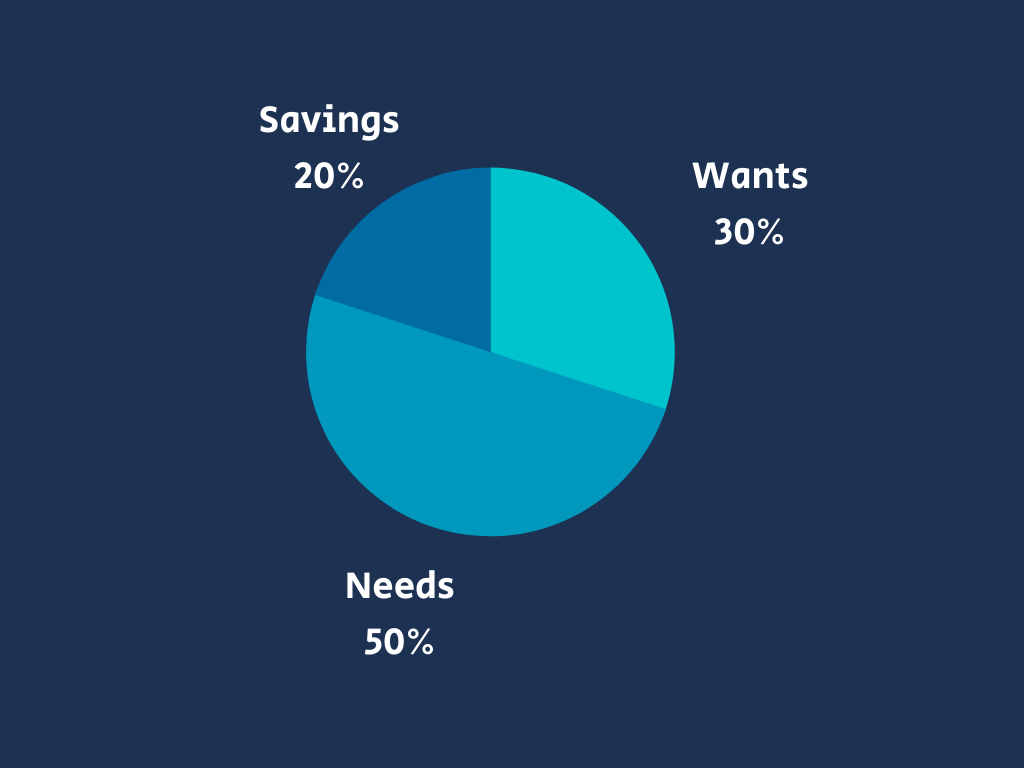
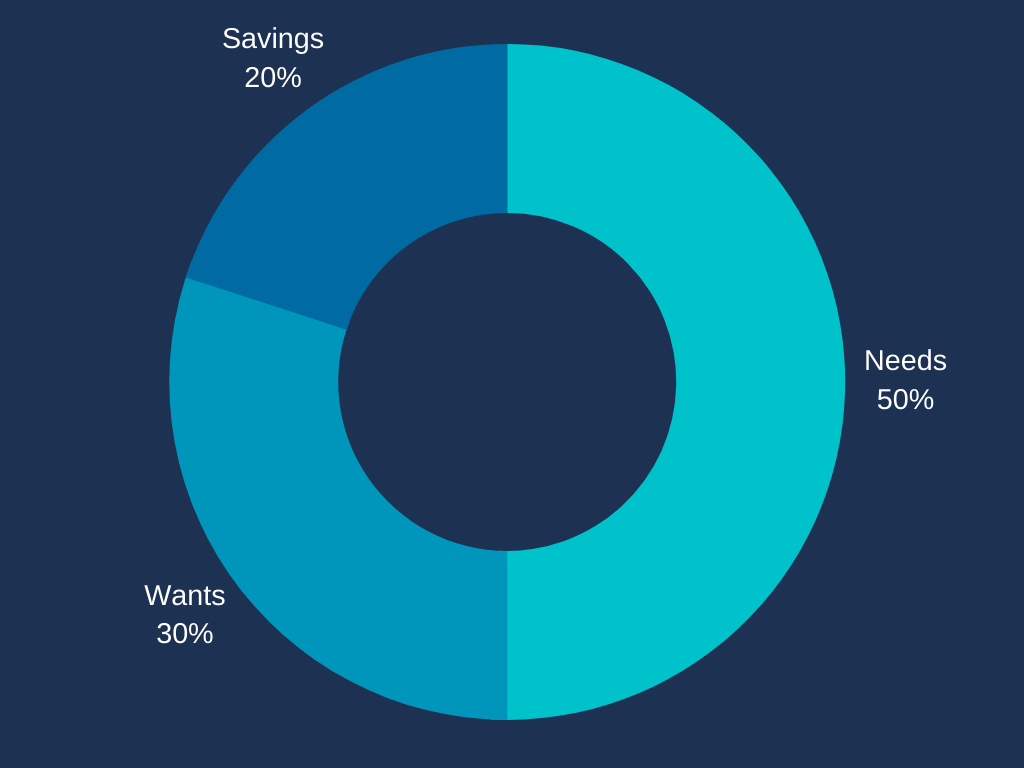
finished case study

diff --git a/src/components/moneywise.js b/src/components/moneywise.js
@@ -7,10 +7,16 @@ import up from '../images/up-arrow.svg';
 import down from '../images/down-arrow.svg';
 import clarity from '../images/clarity.png';
 import ynab from '../images/ynab.png';
-import pie from '../images/pie.png';
 import screens from '../images/screensbg.png';
+import pie from '../images/pie.png';
+import income from '../images/income.png';
+import needs from '../images/needs.png';
+import wants from '../images/wants.png';
+import savings from '../images/savings.png';
 import money from '../images/moneybg.png';
 import github from '../images/git.png';
+import code from '../images/plaid-code.png';
+import plaid from '../images/plaid.jpeg';
 import Navigation from './navigation';
 import Footer from './footer';
 
@@ -51,16 +57,16 @@ export default function Moneywise() {
                         <img src={money} className='thumbnail img-fluid' alt='money wise'/>
                         <h5>Concept</h5>
                         <p>
-                        Money Wise helps users stay on track with the budgetary 50% needs, 30% wants, and 20% savings rule by monitoring 
-                        their bank account and offering insights through data visualizations. 
+                          Money Wise helps users start and maintain a budget by connecting to their bank account and monitoring if they are following the
+                          50/30/20 budgetary rule.
                         </p>
                         <h5>My Role</h5>
                         <p>UX/UI Designer, Mobile Developer</p>
                         <h5>Tech Stack</h5>
                         <p>
-                        React Native, JavaScript, ExpressJS, Firebase, Plaid API 
+                        React Native, JavaScript, ExpressJS, Plaid API 
                         </p>
-                        <a href='#' target='_blank'><img src={github} className='github'/></a>
+                        <a href='https://github.com/vividavila98/MoneyWise' target='_blank'><img src={github} className='github'/></a>
                     </CardBody>
                 </Card>
             </Collapse>
@@ -75,8 +81,7 @@ export default function Moneywise() {
                             <p>
                             As a self-taught Front-End Web Developer, I am constantly learning new technologies 
                             through online tutorials and internships, with React Native being one of them. I wanted 
-                            to explore the mobile development process even more to feel fully proficient in React Native. 
-                            Because of this, I decided to challenge myself by building a personal financial budgeting application 
+                            to explore the mobile development process even more , so I decided to challenge myself by building a personal financial budgeting application 
                             to both solidify my technical skills and improve how I manage my money. 
                             </p>
                             <h4 className='sub'>Problem</h4>
@@ -84,14 +89,13 @@ export default function Moneywise() {
                             Creating and maintaining a budget is one of the most effective ways to manage your money wisely. Deciding 
                             to create a budget is a great start, but it leads to a multitude of questions: How exactly do I split up my 
                             income? How much money am I supposed to save? How do I know when I’ve spent too much money? These types of 
-                            questions is what makes budgeting intimidating and even overwhelming to some people. Budgeting needs to be simple 
-                            enough to start and reassuring enough to continue maintaining it. 
+                            questions are what make budgeting intimidating and even overwhelming to some people, which stops them from ever starting one.
                             </p>
                             <h4 className='sub'>Project Goals &amp; Objectives</h4>
                             <p>
                             My goal is to create an application for people who don’t know how to start a budget or don’t know how to 
-                            maintain one. I want it to be simple enough for people to be able to start budgeting right away, and reassuring 
-                            enough for people to want to continue maintaining their budget. 
+                            maintain one. I want the concept behind the application to be simple enough for people to be able to start budgeting right away, and low-maintenance
+                            enough for people to be able to easily continue maintaining it. 
                             </p>
                         </CardBody>
                     </Card>
@@ -105,7 +109,7 @@ export default function Moneywise() {
                  <CardBody className='text-box'>
                   <h4>Competitive Analysis</h4>
                   <p>
-                  To better understand the problem space, I researched what other personal financial budgeting applications offer. 
+                  To better understand the problem space, I researched what other personal financial budgeting applications have to offer. 
                   </p>
                   <h5>Clarity Money</h5>
                   <img src={clarity} className='thumbnail img-fluid' alt='clarity money'/>
@@ -123,7 +127,7 @@ export default function Moneywise() {
                   </p>
                   <h4 className='sub'>User Research</h4>
                   <p>
-                  I interviewed two close friends of mine to gain insight in what their experience is like with budgeting their money. 
+                  I then interviewed two close friends of mine to gain insight in what their experience is like with budgeting their money. 
                   Some of the questions I asked included the following:
                   </p>
                       <ol className='list'>
@@ -136,10 +140,10 @@ export default function Moneywise() {
                           <li>What would you like to see in an app like that? </li>
                       </ol>
                   <p>
-                  One person seemed pretty lost as to how they’re supposed to be allocating their money. They also seem to have enough money to 
-                  save, but they don’t know how much of it to save. The other person brought up wanting their location to be tracked to then be notified in 
-                  real time on how much they can spend. They both sound as if they’re in need of an easy-to-use tool that will still hold them accountable.
-                  </p>
+                      I found that neither users maintain a budget and only loosely track where their money goes. Neither of them have
+                      a method as to how much money they should save, so they only save money here and there. One even mentioned that they
+                      only know when they have spent too much when they've been notified by their bank that they're under a pre-determined limit.   
+                </p>
               </CardBody>
                  </Card>
              </Collapse>
@@ -150,21 +154,65 @@ export default function Moneywise() {
               <Collapse isOpen={isSolutionOpen}>
                   <Card>
                       <CardBody className='text-box'>
-                          <h4>30 / 50 / 20 Rule</h4>
-                          <img src={screens} className='thumbnail img-fluid' alt='screens'/>
+                          <h4>50/30/20 Rule</h4>
+                          <img src={pie} className='screen img-fluid' alt='screens'/>
                           <p>
-                              Introducting Money Wise: a personal financial budgeting application that teaches users to follow the 
-                              50 / 30 / 20 rule when distributing their income among expenses. Why the 50 / 30 / 20 rule? It makes budgeting as simple as
-                              possible for users who don't want to overwhelm themselves with figuring out how much money should go into different categories.
+                              Based on my findings, I wanted my application to be based on an easy-to-follow budgetary rule, which is when I 
+                              discovered the 50/30/20 rule. Popularized by Senator Elizabeth Warren, the 50/30/20 rule says to distribute 50% of your income on needs, 
+                              30% on wants, and 20% to savings. The 50/30/20 rule is the perfect budgeting method for people who don't know how to get started on one. With 
+                              this rule, they can be at ease knowing that there's an application monitoring their spending habits. 
                           </p>
-                          <h4 className='sub'>Core Features</h4>
-                          <h5>50/30/20 Visualization</h5>
+                          <h4>Core Features of MoneyWise</h4>
+                          <img src={screens} className='thumbnail img-fluid' alt='screens'/>
                           <h5>Monthly Income</h5>
+                          <img src={income} className='img-fluid thumbnail' alt='income' />
+                          <p>
+                              By connecting to their bank accounts, users can view their monthly income to start budgeting. Money Wise will automatically list what they believe make up their monthly income, which users can then edit to include the monthly amount, expected
+                              frequency, and category to get the accurate amount.
+                        </p>
                           <h5>Monthly Spendings on Needs</h5>
+                          <img src={needs} className='img-fluid thumbnail' alt='income' />
+                          <p>
+                              With the monthly income stored, 50% of the value will be calculated to then allot that amount to be spent on necessities. 
+                              Money Wise will display a donut chart to easily show the user how much money they have left to spend on this category.
+                              Users can then view a more detailed list of their needs broken down into categories they created that track specific bank transactions. 
+                        </p>
                           <h5>Monthly Spendings on Wants</h5>
+                          <img src={wants} className='img-fluid thumbnail' alt='income' />
+                          <p>
+                              Similarly to the Needs category, 30% of the user's income will be calculated to track how much money
+                              users can spend on things they want. They can also see a more detailed list of their wants automatically broken down into categories created by Money Wise.
+                        </p>
                           <h5>Monthly Savings</h5>
-                          <h4 className='sub'>Working With The Plaid API</h4>
-
+                          <img src={savings} className='img-fluid thumbnail' alt='income' />
+                          <p>
+                              Finally, 20% of their income will be calculated to see how much money they should be saving monthly. Users can connect to their savings accounts
+                              and even set goals with specific amounts and dates to stay motivated. 
+                        </p>
+                          <h4>Working With The Plaid API</h4>
+                          <img src={plaid} className='img-fluid screen' alt='income' />
+                          <p>This is the first time I've ever worked with the <a href='https://plaid.com/docs/quickstart/' target='_blank' style={{color: 'white', fontStyle: 'italic'}}>Plaid API</a>, and the documentation for using it with React Native is a bit dated, so I want to quickly run through it.</p>
+                          <p><b>What is the Plaid API</b></p>
+                          <p>The Plaid API allows you to connect your bank account to your application. Once it's securely connected, you can get information such as transaction history, balance, income, and more.</p>
+                          <p><b>The Flow</b></p>
+                          <p>
+                              When you create an account with Plaid, you'll be given three API keys: a public key, a secret key, and a client id. Once you have your API keys, you'll be able to 
+                              make requests that interact with an <b>Item</b>, which is a set of credentials that is linked to your bank account. 
+                        </p>
+                        <p>To create an Item, we'll be using Plaid Link, which will handle credential validation, multi-factor authentication, and even error handling. Here's the overview of how it works:</p>
+                        <ol>
+                            <li>Your user creates an Item, which returns a public token</li>
+                            <li>In the onSuccess callback, you send the public token to the server</li>
+                            <li>The server exchanges the public token for an access token and item id</li>
+                        </ol>
+                        <p><b>Glance of My Code</b></p>
+                        <p>First I installed the dependencies I needed: plaid, react-native-plaid-link, and axios.</p>
+                        <p>Here's what the Plaid Link component should look like:</p>
+                        <img src={code} className='img-fluid screen' alt='income' />
+                        <h4>Going Forward</h4>
+                        <p>
+                            Now with the Plaid API integrated, I'm set to create a fully functioning personal financial budgeting application. To track my progress, checkout my Github repository linked in my Project Overview. Thanks for reading!
+                        </p>
                         </CardBody>
                     </Card>
                 </Collapse>

diff --git a/src/components/footer.js b/src/components/footer.js
@@ -10,7 +10,7 @@ export default function Footer() {
     return (
         <footer id='contact' className='container-fluid text-center'>
           <div className='container contact'>
-            <h3><span className='code'>04. </span>Contact Me <img src={line} className='line' alt='line' /></h3>
+            <h3><span className='code'></span>Contact Me <img src={line} className='line' alt='line' /></h3>
             <h5 className='code mb-4'>// If you're interested in disucssing my work, email me!</h5>
             <Row>
               <Col sm='12' md='4'>

diff --git a/src/styles/moneywise.scss b/src/styles/moneywise.scss
@@ -86,6 +86,11 @@ $box: #1D3152;
         width: 40px;
         height: 40px;
     }
+    img.screen {
+        height: 20%;
+        width: 40%;
+        margin: 2% 0;
+    }
     .sub {
         margin-top: 8%;
     }

diff --git a/src/styles/index.scss b/src/styles/index.scss
@@ -33,7 +33,7 @@ h1, h2, h3 {
 
 .code {
     font-family: 'Roboto Mono', monospace;
-    color: $code;
+    color: $code !important;
 }
 
 .code-color {
